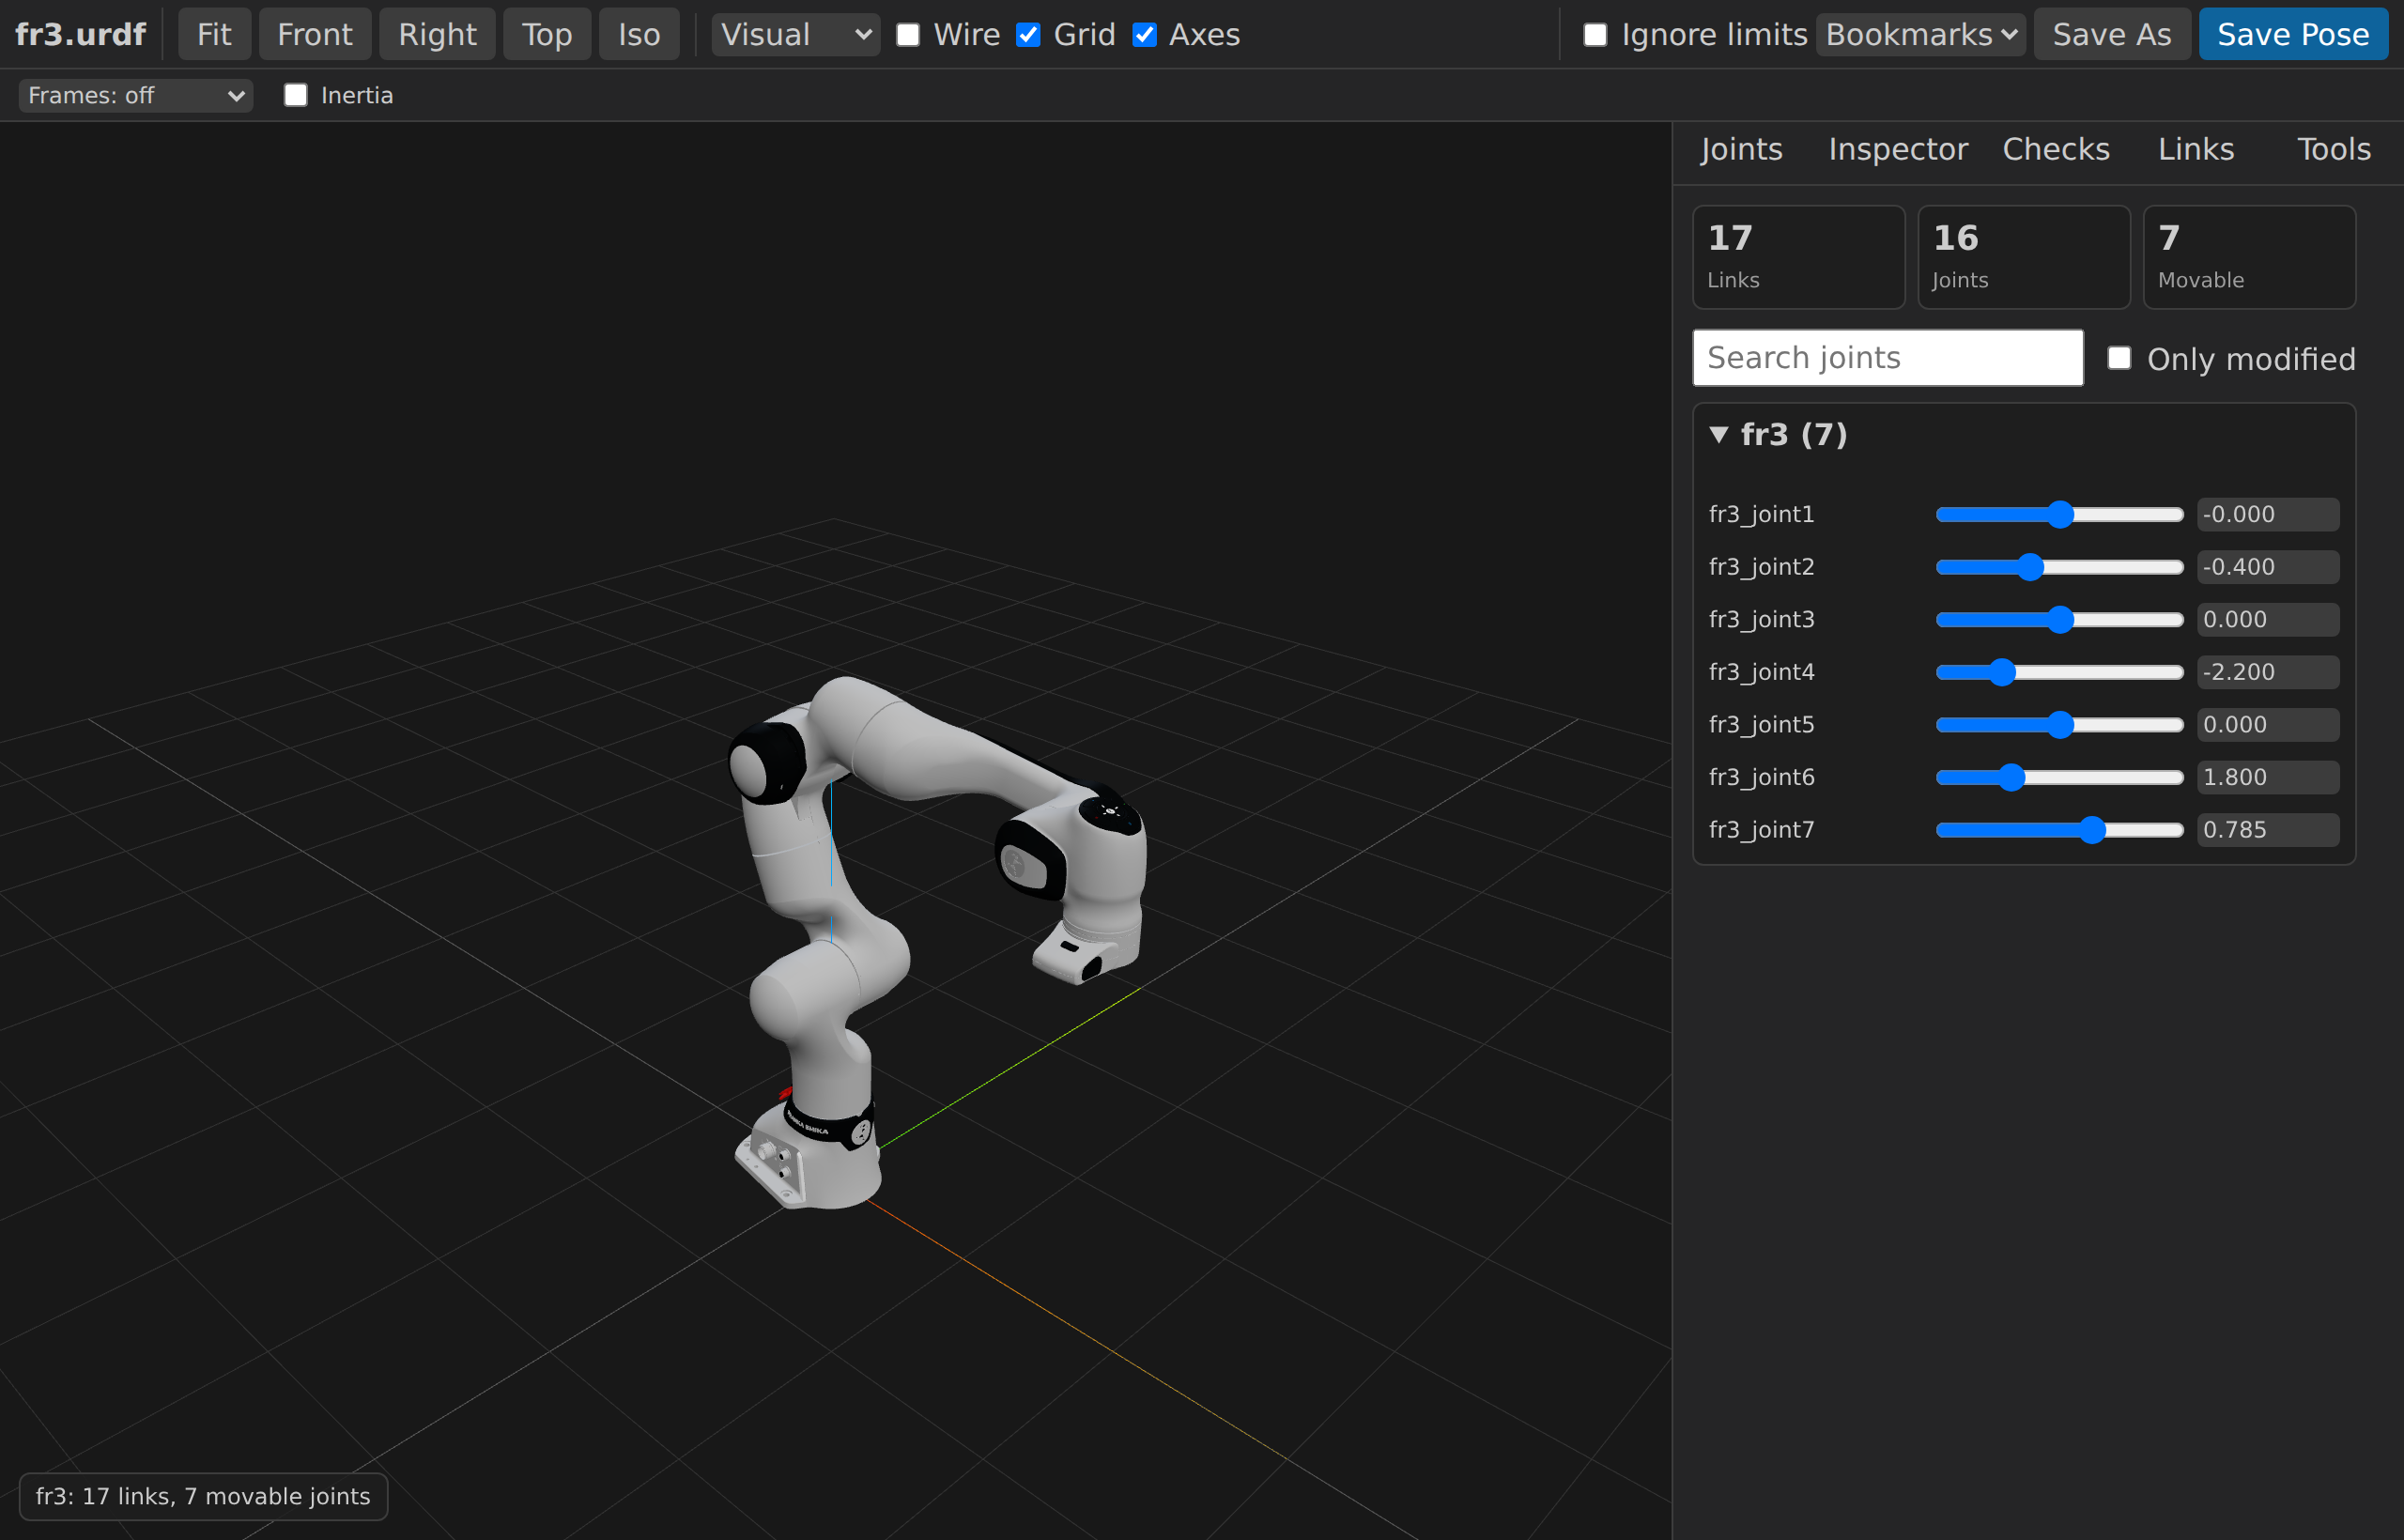
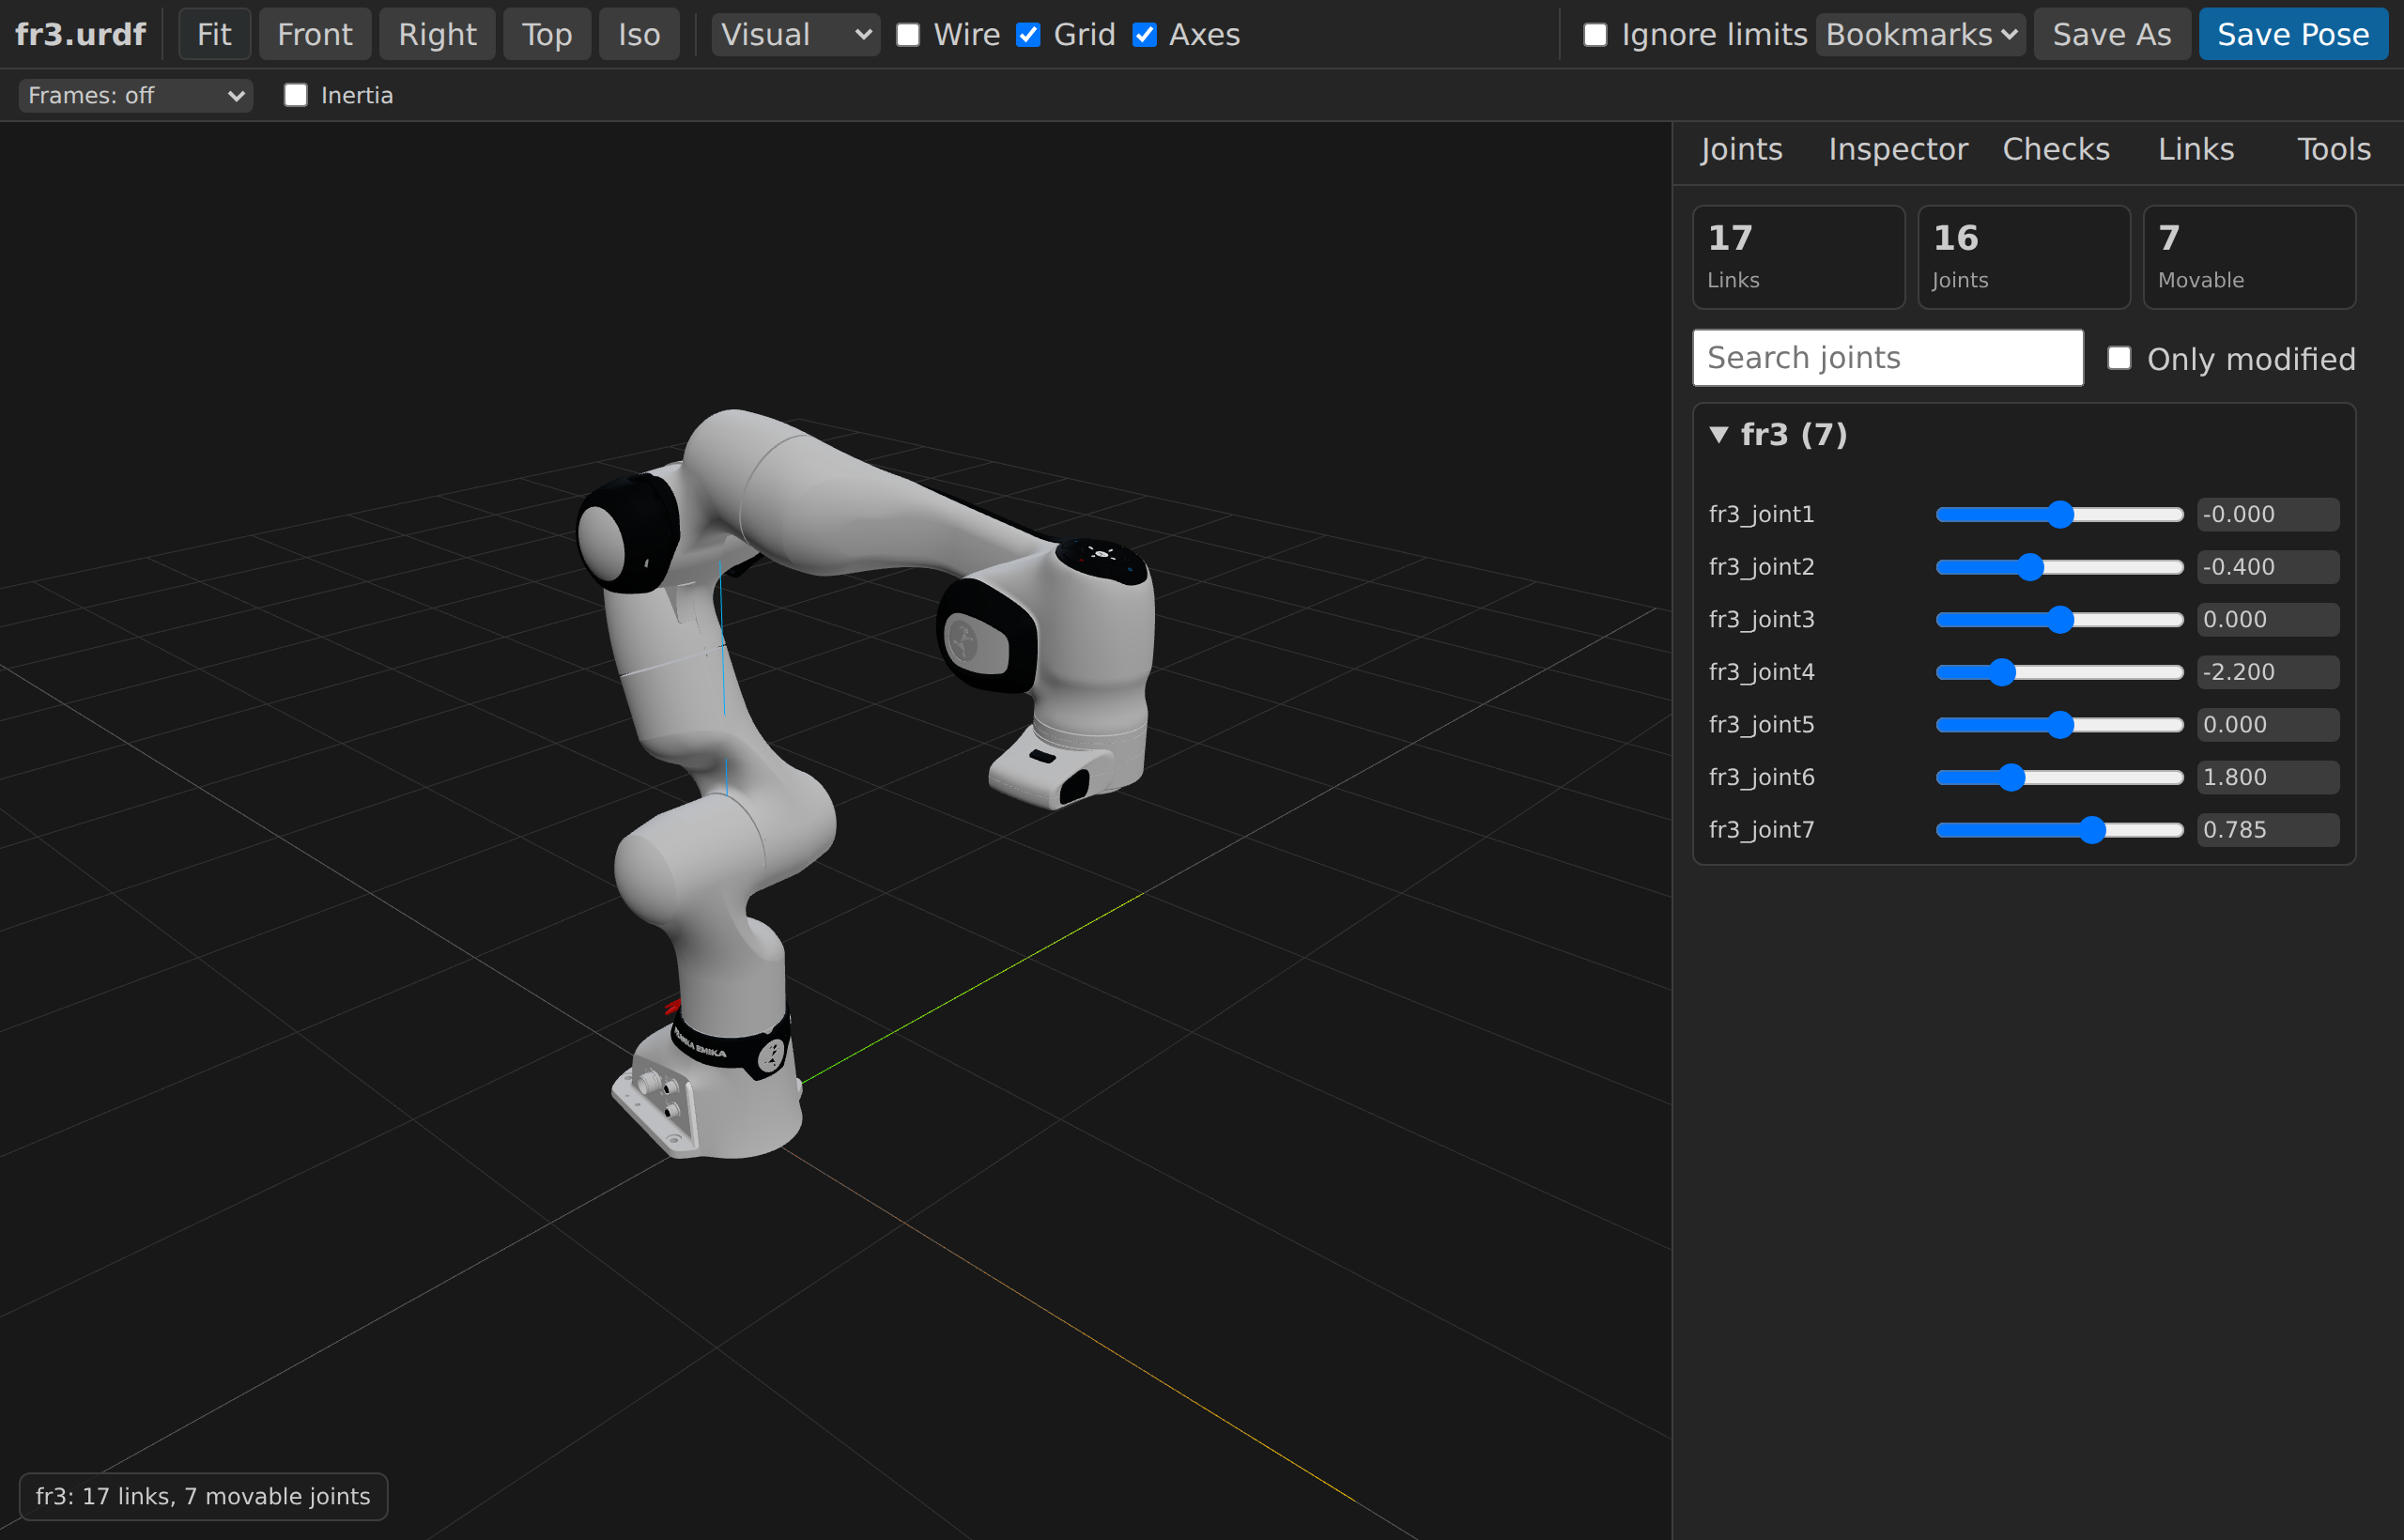
Add inspector + collision screenshots; fix BoxHelper for unnamed visuals
Adds two more FR3 screenshots to the README — one for the Link Tree &
Inspector section (showing the selected-link bounding box hugging just
that link's own visual mesh), and one for the Render Modes section
(collision-only mode showing FR3's self-collision primitives).

While generating the inspector screenshot, found that the selected-link
BoxHelper was not appearing on FR3. The earlier fix used
robot.visual[linkName], but urdf-loader keys robot.visual by the
<visual name="..."> attribute — which most URDFs (FR3 included) omit.
The lookup returned undefined and no BoxHelper was added at all.

Fix: walk the link's direct children for URDFVisual nodes and anchor
the BoxHelper to the single URDFVisual child (or fall back to the link
itself when a link has multiple <visual> tags). The box now hugs only
the selected link's own visual mesh on any URDF, regardless of whether
visuals are named.

The screenshot script is updated to fit-camera before each shot for
visual consistency between screenshots, and to skip the diagnostics
panel (FR3 has none — no useful image).

Changed region(s): [[0.2188, 0.2488, 0.5, 0.8085]]

diff --git a/scripts/take-screenshots.ts b/scripts/take-screenshots.ts
@@ -138,13 +138,49 @@ async function main(): Promise<void> {
       }, { n: name, v: value });
     }
     await page.waitForTimeout(400);
-    await page.evaluate(() => (window as any).studioDebug?.fit?.());
+    await page.locator('#fit').click();
     await page.waitForTimeout(300);
 
-    // Main view: full UI with joints panel active
+    const waitForHudIdle = async () => {
+      await page.waitForFunction(() => {
+        const hud = document.getElementById('hud');
+        return !hud || !/Loading/i.test(hud.textContent ?? '');
+      }, { timeout: 30000 });
+      await page.waitForTimeout(400);
+    };
+
+    const refit = async () => {
+      await page.locator('#fit').click();
+      await page.waitForTimeout(250);
+    };
+
+    // 1) Main view: full UI with joints panel active
     await page.locator('[data-tab="joints"]').click();
-    await page.waitForTimeout(300);
+    await refit();
     await page.screenshot({ path: path.join(outputDir, 'viewer-joints.png'), fullPage: false });
+
+    // 2) Inspector with selected link + yellow BoxHelper hugging only that link's visual
+    await page.locator('[data-tab="links"]').click();
+    await page.waitForTimeout(200);
+    await page.evaluate(() => {
+      document.querySelectorAll('#panel-links details').forEach(d => (d as HTMLDetailsElement).open = true);
+    });
+    const linkButton = page.locator('[data-link="fr3_link4"]').first();
+    if (await linkButton.count()) {
+      await linkButton.click();
+      await page.waitForTimeout(300);
+      await page.locator('[data-tab="inspector"]').click();
+      await refit();
+      await page.screenshot({ path: path.join(outputDir, 'inspector-selected.png'), fullPage: false });
+    }
+
+    // 3) Collision render mode — last because the visual→collision toggle triggers a
+    // re-load whose mesh cache invalidation prevents visual meshes from reappearing.
+    await page.locator('[data-tab="joints"]').click();
+    await page.locator('#render-mode').selectOption('collision');
+    await waitForHudIdle();
+    await refit();
+    await page.screenshot({ path: path.join(outputDir, 'render-collision.png'), fullPage: false });
 
     await context.close();
   } finally {

diff --git a/src/renderer/main.ts b/src/renderer/main.ts
@@ -810,9 +810,21 @@ function selectLink(linkName: string | undefined): void {
     selectedBox = undefined;
   }
   if (linkName && robot?.links?.[linkName]) {
-    const visualGroup = (robot.visual as Record<string, Object3D> | undefined)?.[linkName];
-    if (visualGroup) {
-      selectedBox = new THREE.BoxHelper(visualGroup, 0xffd866);
+    // urdf-loader keys robot.visual by <visual name="..."> attribute, which is
+    // optional and frequently omitted (e.g. Franka FR3 has none). Find the
+    // link's direct URDFVisual children so the box hugs only this link's own
+    // visual meshes, not descendant links' geometry.
+    const link = robot.links[linkName] as Object3D;
+    const visualChildren = link.children.filter(child => (child as { isURDFVisual?: boolean }).isURDFVisual);
+    if (visualChildren.length === 1) {
+      selectedBox = new THREE.BoxHelper(visualChildren[0], 0xffd866);
+      scene.add(selectedBox);
+    } else if (visualChildren.length > 1) {
+      // Multiple <visual> per link: anchor BoxHelper at the link itself but
+      // hide collision/sub-link children so the box ignores them. Simpler than
+      // unioning bounds each frame and rare enough in practice (FR3 doesn't
+      // hit this branch).
+      selectedBox = new THREE.BoxHelper(link, 0xffd866);
       scene.add(selectedBox);
     }
     vscode.postMessage({ type: 'selectionChanged', link: linkName, joint: currentData?.metadata.links[linkName]?.parentJoint });

diff --git a/README.md b/README.md
@@ -62,11 +62,19 @@ Switch between three geometry layers:
 
 Toggle **wireframe** mode to inspect mesh topology. Show or hide the **grid** and **axes** helpers.
 
+![Collision render mode for Franka FR3](media/screenshots/render-collision.png)
+
+*Collision-only render mode — FR3's self-collision primitives (capsules and cylinders) replace the detailed visual meshes.*
+
 ### 🌲 Link Tree & Inspector
 
 Browse the full kinematic tree in a collapsible hierarchy. Click any link in the tree or directly in the 3D viewport to inspect it — selected links are highlighted with a tight bounding box around the link's own visual mesh, and the inspector shows parent/child joints, joint type, axis, limits, mass, center of mass, and associated meshes.
 
 The side panel is organised into tabs: **Joints**, **Inspector**, **Checks**, **Links**, and **Tools**.
+
+![Inspector with fr3_link4 selected](media/screenshots/inspector-selected.png)
+
+*Selecting `fr3_link4` highlights just that link's visual mesh with a tight yellow box; the inspector panel shows its parent joint, axis, limits, child joints, and mesh paths.*
 
 ### 🧭 TF Frames & Inertia Overlays
 